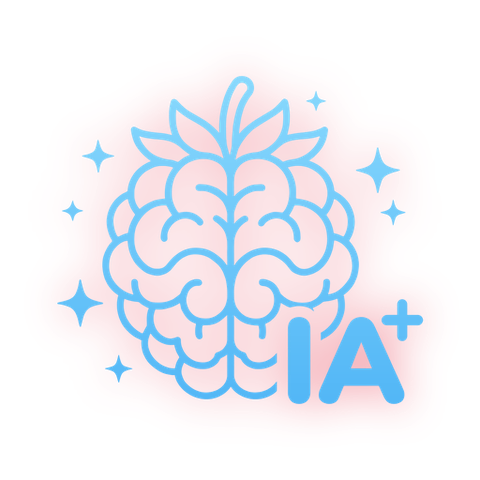
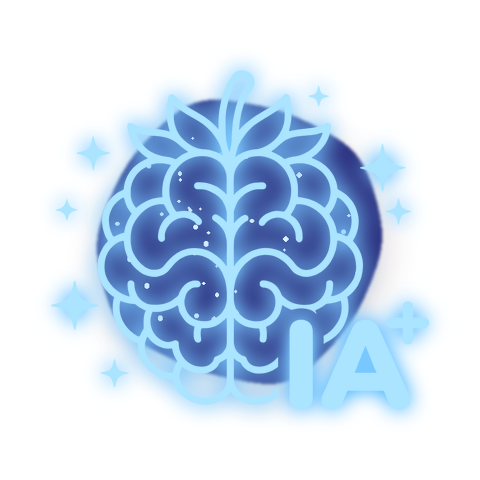
IA+ con «ki» rojo animado; fuera el botón de IA de la barra del muestreo
- Web: IA e IA+ del mismo porte, ambos sobre su burbuja azul oscuro; IA+ con un «ki»
  rojo que emana del dibujo y se evapora hacia arriba (volutas difusas y un aura que
  respira; sin animación si el sistema pide menos movimiento). En el teléfono, chicos y
  lado a lado en la esquina.
- App: el Entrenador de IA ya no está en la barra del muestreo (se abre desde el inicio).
- ui/arcade.KiButton: el botón IA+ animado para la app (Lab).

Claude-Session: https://claude.ai/code/session_01AQtHHbNtiHMaVCGrhptX3t

diff --git a/web/style.css b/web/style.css
@@ -342,14 +342,47 @@ dialog.tdialog[open] { display: flex; }
 .tcount { display: flex; flex-wrap: wrap; gap: 4px 12px; font-size: 13px; }
 .thint { text-align: center; opacity: .55; padding: 0 0 8px; }
 
-/* Botones de IA (lab): IA (entrenar con las fotos de los ensayos) e IA+ (fotos extra) */
-.aifabs { position: fixed; right: 14px; bottom: 14px; z-index: 6; display: flex; flex-direction: column; align-items: center; gap: 2px; }
+/* Botones de IA (lab): IA (fotos de los ensayos) e IA+ (fotos extra), mismo porte, sobre su
+   burbuja azul oscuro. En el teléfono, chicos y lado a lado para no tapar la lista. */
+.aifabs { position: fixed; right: 14px; bottom: 14px; z-index: 6; display: flex; flex-direction: column; align-items: center; gap: 4px; }
 .aifabs[hidden] { display: none; }
-.aifab { border: 0; padding: 0; background: transparent; cursor: pointer; transition: transform .15s;
-  width: clamp(92px, 17vw, 240px); height: clamp(92px, 17vw, 240px); filter: drop-shadow(0 8px 18px rgba(30, 40, 90, .28)); }
-.aifab.plus { width: clamp(74px, 13vw, 180px); height: clamp(74px, 13vw, 180px); }
-/* En pantallas angostas, espacio al final para que los botones no tapen la lista */
-@media (max-width: 760px) { body.withfabs { padding-bottom: 180px; } }
+.aifab { position: relative; border: 0; padding: 0; background: transparent; cursor: pointer; transition: transform .15s;
+  width: clamp(92px, 13vw, 190px); height: clamp(92px, 13vw, 190px); filter: drop-shadow(0 8px 18px rgba(30, 40, 90, .28)); }
+.aifab:hover { transform: scale(1.06); }
+.aifab img { position: relative; width: 100%; height: 100%; z-index: 1; }
+@media (max-width: 760px) {
+  .aifabs { flex-direction: row; right: 10px; bottom: 10px; gap: 6px; }
+  .aifab { width: 64px; height: 64px; }
+  body.withfabs { padding-bottom: 96px; }
+}
+/* IA+: «ki» rojo que emana del dibujo y se evapora hacia arriba */
+.aifab.plus img { animation: kiglow 2.6s ease-in-out infinite; }
+@keyframes kiglow {
+  0%, 100% { filter: drop-shadow(0 0 3px rgba(255, 40, 70, .35)); }
+  50% { filter: drop-shadow(0 0 10px rgba(255, 40, 70, .6)); }
+}
+.ki { position: absolute; inset: 0; z-index: 0; pointer-events: none; }
+.ki::before { content: ""; position: absolute; inset: 4%; border-radius: 50%;
+  background: radial-gradient(circle, rgba(255, 40, 70, .55) 30%, rgba(255, 40, 70, 0) 70%);
+  filter: blur(8px); animation: kiaura 2.6s ease-in-out infinite; }
+@keyframes kiaura { 0%, 100% { transform: scale(1); opacity: .55; } 50% { transform: scale(1.18); opacity: .95; } }
+.ki i { position: absolute; bottom: 30%; width: 42%; height: 52%; border-radius: 50% 50% 45% 45%;
+  background: radial-gradient(ellipse at 50% 60%, rgba(255, 45, 75, .85) 0%, rgba(255, 45, 75, .35) 40%, rgba(255, 45, 75, 0) 70%);
+  filter: blur(6px); opacity: 0; animation: ki 2.8s ease-out infinite; }
+.ki i:nth-child(1) { left: 2%;  animation-delay: 0s; }
+.ki i:nth-child(2) { left: 26%; animation-delay: .4s; }
+.ki i:nth-child(3) { left: 52%; animation-delay: .8s; }
+.ki i:nth-child(4) { left: 64%; animation-delay: 1.2s; }
+.ki i:nth-child(5) { left: 14%; animation-delay: 1.6s; }
+.ki i:nth-child(6) { left: 40%; animation-delay: 2.0s; }
+.ki i:nth-child(7) { left: 58%; animation-delay: 2.4s; }
+@keyframes ki {
+  0%   { transform: translateY(10%) scale(.5, .6); opacity: 0; }
+  20%  { opacity: .95; }
+  60%  { opacity: .55; }
+  100% { transform: translateY(-120%) scale(1.15, 1.8); opacity: 0; }
+}
+@media (prefers-reduced-motion: reduce) { .ki i, .ki::before, .aifab.plus img { animation: none; } }
 .aifab:hover { transform: scale(1.06); }
 .aifab img { width: 100%; height: 100%; }
 dialog.tpage { width: 100vw; height: 100vh; max-width: none; max-height: none; border-radius: 0; padding: 0;

diff --git a/web/index.html b/web/index.html
@@ -358,7 +358,9 @@
   </dialog>
 
   <div id="aifabs" class="aifabs" hidden>
-    <button id="iaplusfab" class="aifab plus" title="IA+ · Conocimiento ampliado: fotos extra para entrenar (subir y marcar)"><img src="iaplus.png" alt="IA+"></button>
+    <button id="iaplusfab" class="aifab plus" title="IA+ · Conocimiento ampliado: fotos extra para entrenar (subir y marcar)">
+      <span class="ki" aria-hidden="true"><i></i><i></i><i></i><i></i><i></i><i></i><i></i></span>
+      <img src="iaplus.png" alt="IA+"></button>
     <button id="trainfab" class="aifab" title="Entrenar IA: marcar yemas, flores y frutos en las fotos de los ensayos"><img src="ai.png" alt="Entrenar IA"></button>
   </div>
 

diff --git a/ui/arcade.py b/ui/arcade.py
@@ -582,3 +582,91 @@ class AuraCheck(ButtonBehavior, Widget):
             if self.active:
                 Color(*c("#BAE6FD"))
                 Ellipse(pos=(cx - r * .55, cy - r * .55), size=(r * 1.1, r * 1.1))
+
+
+# ------------------------------------------------------------------ IA+: «ki» rojo
+_ki_tex = None
+
+
+def ki_texture():
+    """Mancha roja difusa (degradado radial), una sola textura para todas las volutas."""
+    global _ki_tex
+    if _ki_tex is None:
+        from kivy.graphics.texture import Texture
+        n = 64
+        buf = bytearray()
+        for y in range(n):
+            for x in range(n):
+                d = math.hypot((x - n / 2 + .5) / (n / 2), (y - n / 2 + .5) / (n / 2))
+                a = max(0.0, 1 - d) ** 1.8
+                buf += bytes((255, 45, 75, int(255 * a)))
+        tex = Texture.create(size=(n, n), colorfmt="rgba")
+        tex.blit_buffer(bytes(buf), colorfmt="rgba", bufferfmt="ubyte")
+        _ki_tex = tex
+    return _ki_tex
+
+
+class KiButton(ButtonBehavior, Widget):
+    """Botón IA+: el logo con un «ki» rojo que emana del dibujo y se evapora hacia arriba
+    (volutas difusas que suben, crecen y se desvanecen, y un aura que respira). Las
+    instrucciones se crean una vez; cada cuadro solo las mueve (30 por segundo, y solo
+    mientras se ve)."""
+    source = StringProperty("")
+    N = 7
+
+    def __init__(self, **kw):
+        super().__init__(**kw)
+        self._t = 0.0
+        self._ev = None
+        tex = ki_texture()
+        rnd = random.Random(3)
+        self._wisps = [{"x": rnd.uniform(.12, .78), "ph": i / self.N, "w": rnd.uniform(.32, .46)}
+                       for i in range(self.N)]
+        with self.canvas.before:
+            self._aura_col = Color(1, 1, 1, .5)
+            self._aura = Rectangle(texture=tex)
+            self._cols, self._rects = [], []
+            for _ in self._wisps:
+                self._cols.append(Color(1, 1, 1, 0))
+                self._rects.append(Rectangle(texture=tex))
+        with self.canvas:
+            self._img_col = Color(1, 1, 1, 1)
+            self._img = Rectangle()
+        self.bind(source=self._load, pos=self._step0, size=self._step0, state=self._press)
+
+    def _load(self, *_):
+        from kivy.core.image import Image as CoreImage
+        self._img.texture = CoreImage(self.source).texture if self.source else None
+
+    def _press(self, *_):
+        self._img_col.a = .75 if self.state == "down" else 1
+
+    def on_parent(self, *_):
+        if self.parent is not None and self._ev is None:
+            self._ev = Clock.schedule_interval(self._step, 1 / 30)
+
+    def _step0(self, *_):
+        self._img.pos, self._img.size = self.pos, self.size
+        self._step(0)
+
+    def _step(self, dt):
+        if dt and self.get_root_window() is None:
+            if self._ev is not None:
+                self._ev.cancel()
+                self._ev = None
+            return
+        self._t += dt
+        x, y, w, h = self.x, self.y, self.width, self.height
+        beat = .5 + .5 * math.sin(self._t * 2.4)
+        r = w * (.62 + .1 * beat)
+        self._aura.pos, self._aura.size = (x + w / 2 - r, y + h / 2 - r), (2 * r, 2 * r)
+        self._aura_col.a = .45 + .3 * beat
+        life = 2.6
+        for wsp, col, rect in zip(self._wisps, self._cols, self._rects):
+            k = ((self._t / life) + wsp["ph"]) % 1.0           # 0 → 1 a lo largo de su vida
+            ww = w * wsp["w"] * (.6 + .7 * k)
+            hh = ww * (1.1 + .9 * k)
+            cx = x + w * wsp["x"] + math.sin(self._t * 1.7 + wsp["ph"] * 6) * w * .04
+            cy = y + h * .35 + k * h * 1.05
+            rect.pos, rect.size = (cx - ww / 2, cy - hh / 2), (ww, hh)
+            col.a = (min(1, k / .2) * (1 - k)) * .85

diff --git a/ui/screens.py b/ui/screens.py
@@ -663,20 +663,8 @@ class HomeScreen(MDScreen):
                 return btn
         return None
 
-    def _style_actions(self):
-        if getattr(self, "_styled", False):
-            return
-        ai = self._action((theme.AI_BAR,))
-        if ai is not None and ai.ids.lbl_ic._size[0]:   # el cerebro, más grande que el resto
-            lbl = ai.ids.lbl_ic
-            grow = dp(31) - lbl._size[0]
-            lbl._size = [dp(31), dp(31)]
-            lbl.y -= grow / 2
-            self._styled = True
-
     def update_drive_icon(self, *_):
         """Drive con flecha (hay algo por subir), con check (al día) o tachado (sin cuenta)."""
-        self._style_actions()
         if getattr(self, "_spin_ev", None):
             return   # subiendo: lo actualiza la animación
         btn = self._action([theme.DRIVE_UP, theme.DRIVE_OK, theme.DRIVE_OFF])
